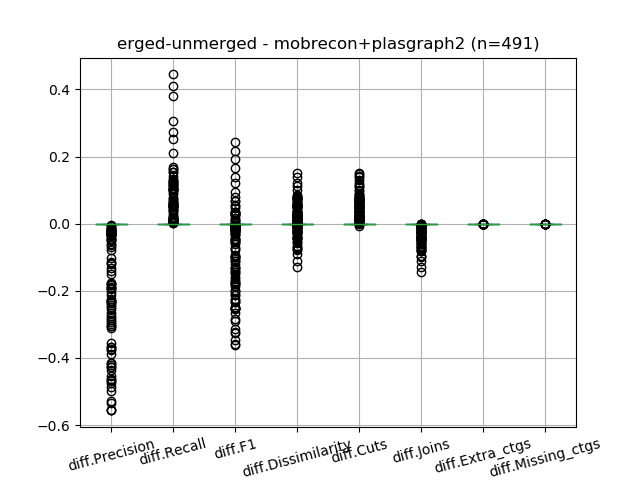
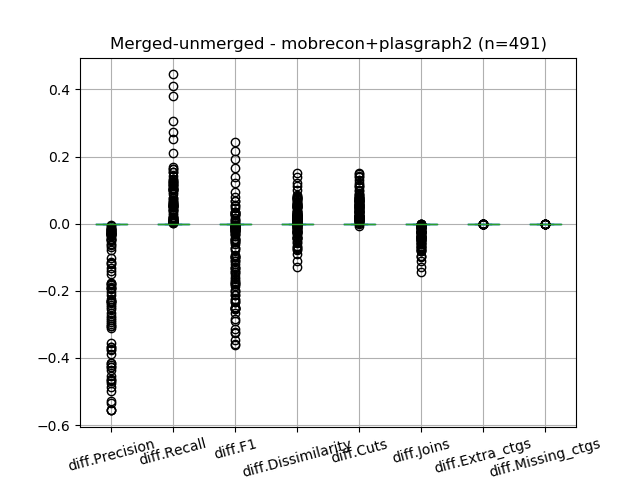
difference figures

Changed region(s): [[0.1562, 0.0625, 0.8438, 0.125]]

diff --git a/exp_20250802/analysis_utils.py b/exp_20250802/analysis_utils.py
@@ -362,7 +362,6 @@ def create_unmerged_vs_merged_difference_boxplot(
         ]
         plot_df = plot_df_aux[diff_cols]
     nb_data_points = plot_df.shape[0]
-
     plot_df.plot.box(grid=True, rot=15)
     plt.xlabel(diff_cols)
     plt.title(f"{out_title} (n={nb_data_points})")
@@ -428,7 +427,7 @@ if __name__ == "__main__":
         columns = sys.argv[4].split(",")  #"Dissimilarity,Cuts,Joins" or "all"
         binning = sys.argv[5]
         classification = sys.argv[6]
-        title = f"erged-unmerged - {binning}+{classification}"
+        title = f"Merged-unmerged - {binning}+{classification}"
         out_file_name = "_".join(columns)
         out_file = os.path.join(out_dir, f"diff_{out_file_name}_{binning}_{classification}.png")
         create_unmerged_vs_merged_difference_boxplot(
